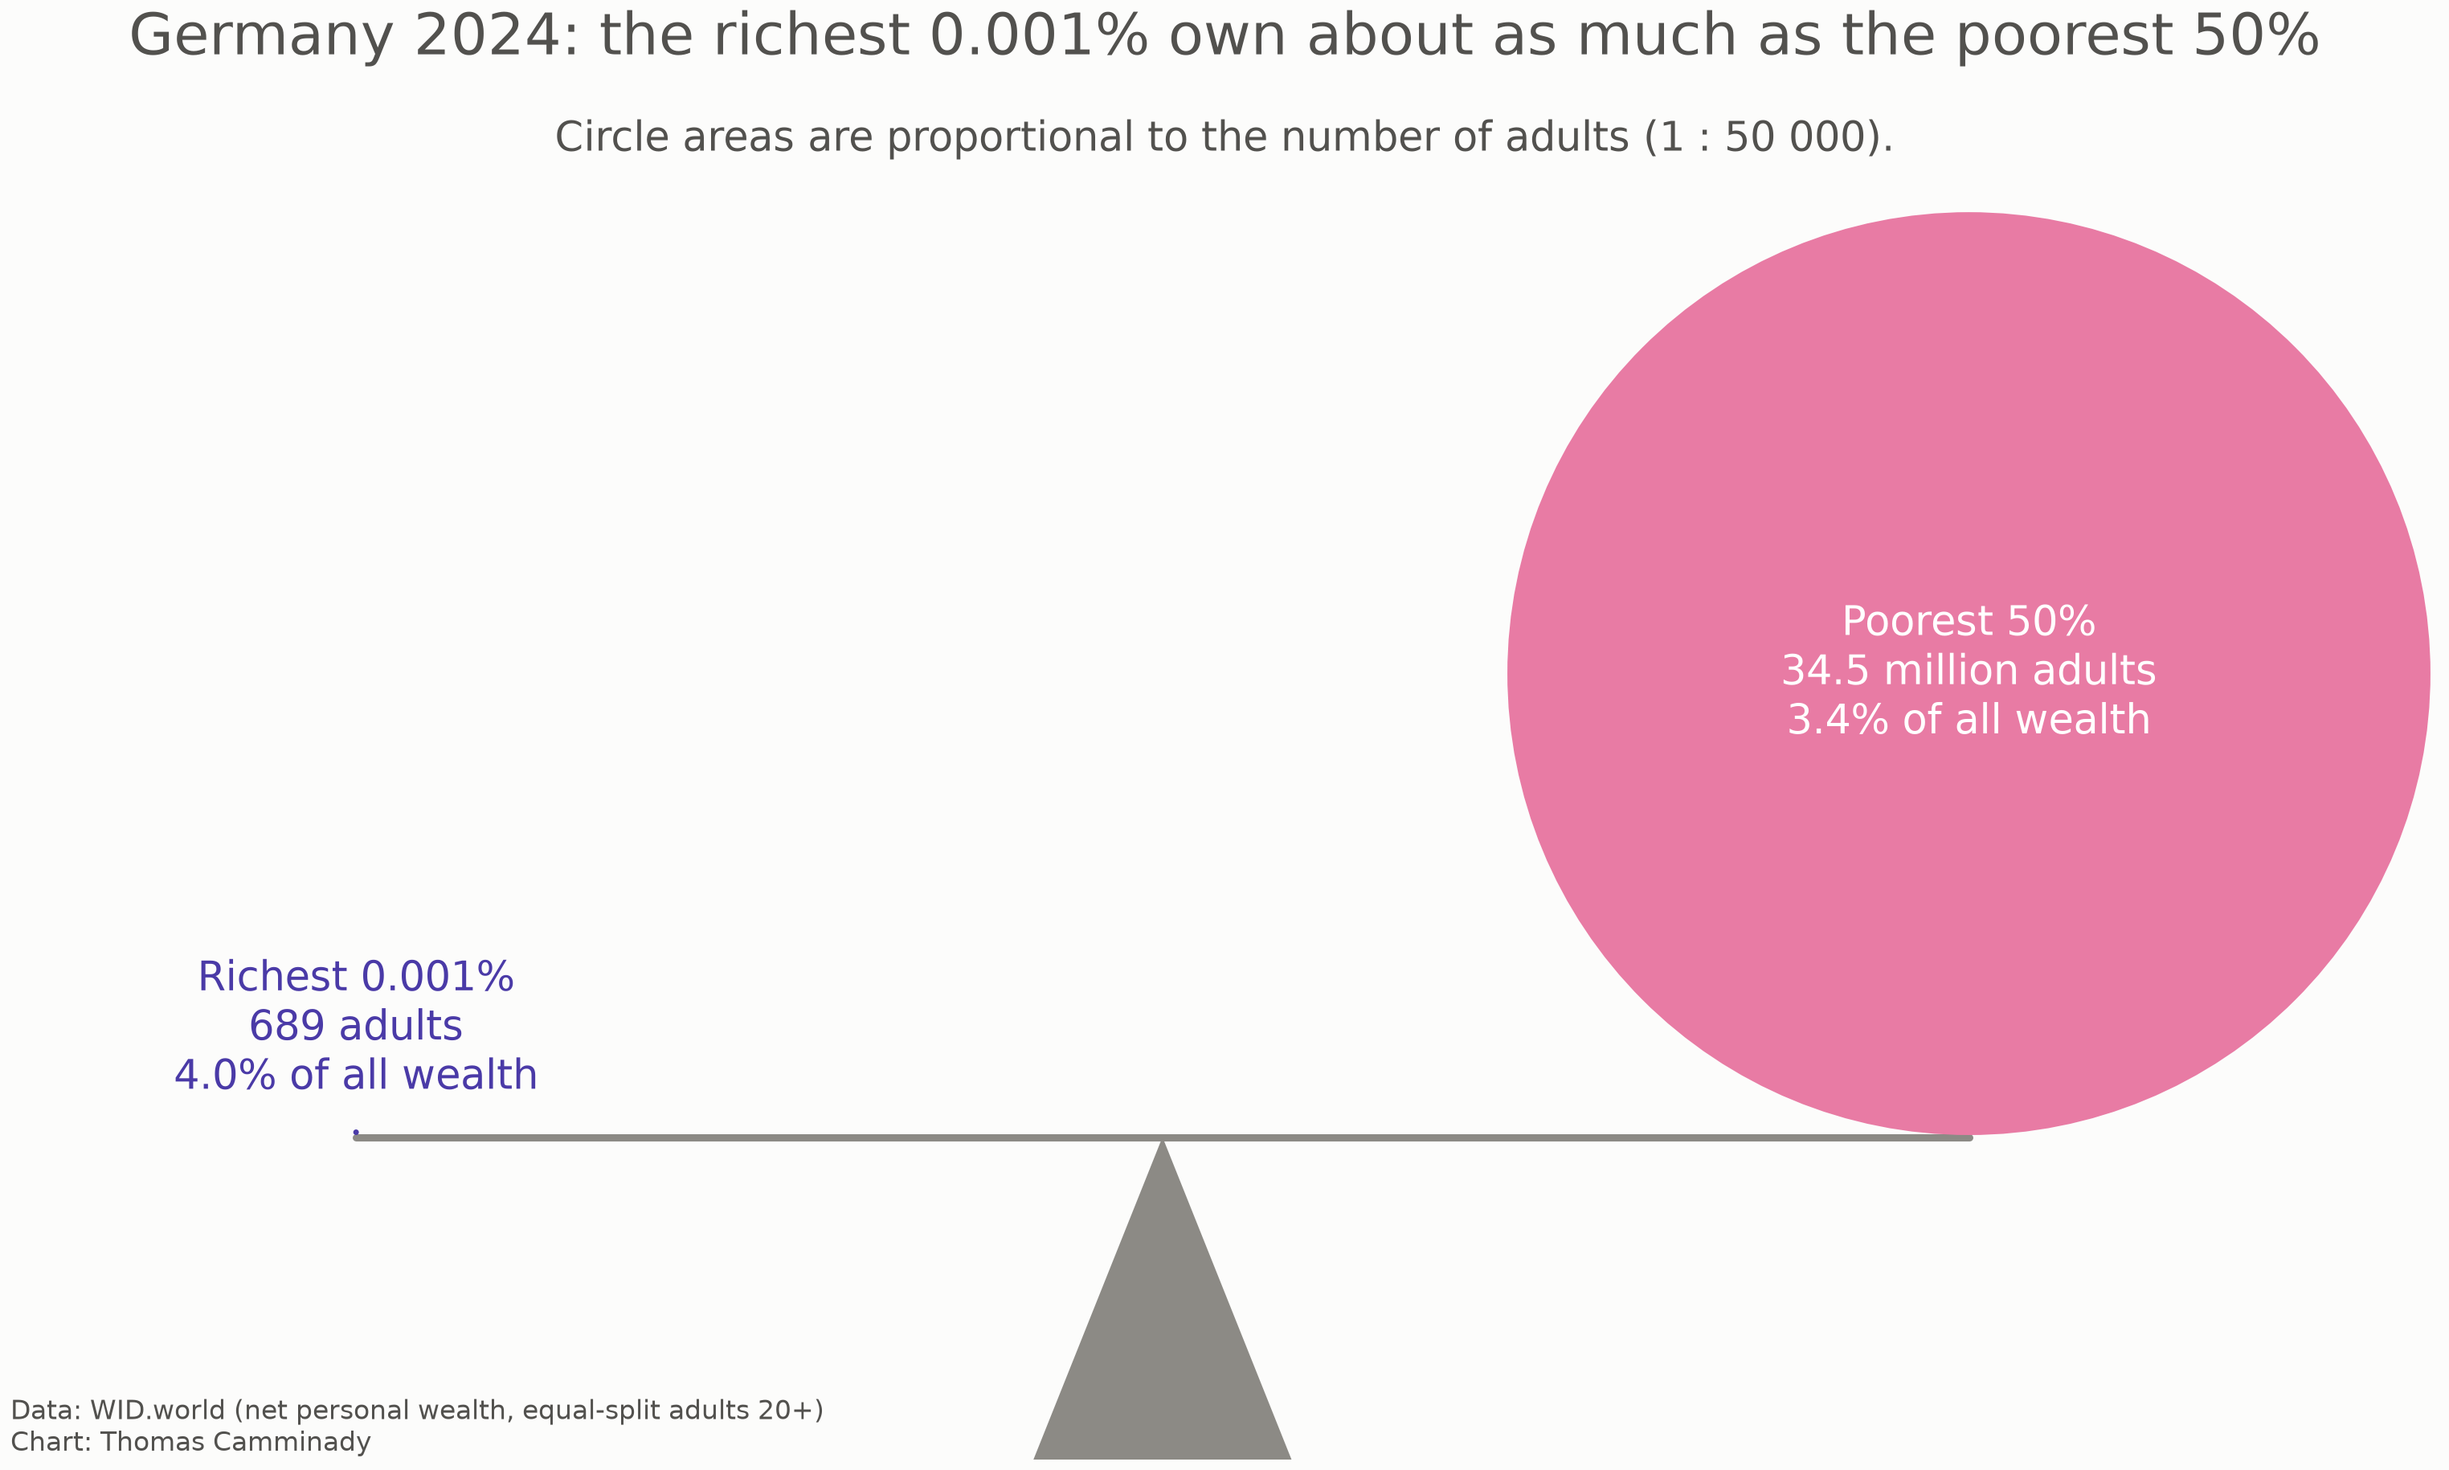
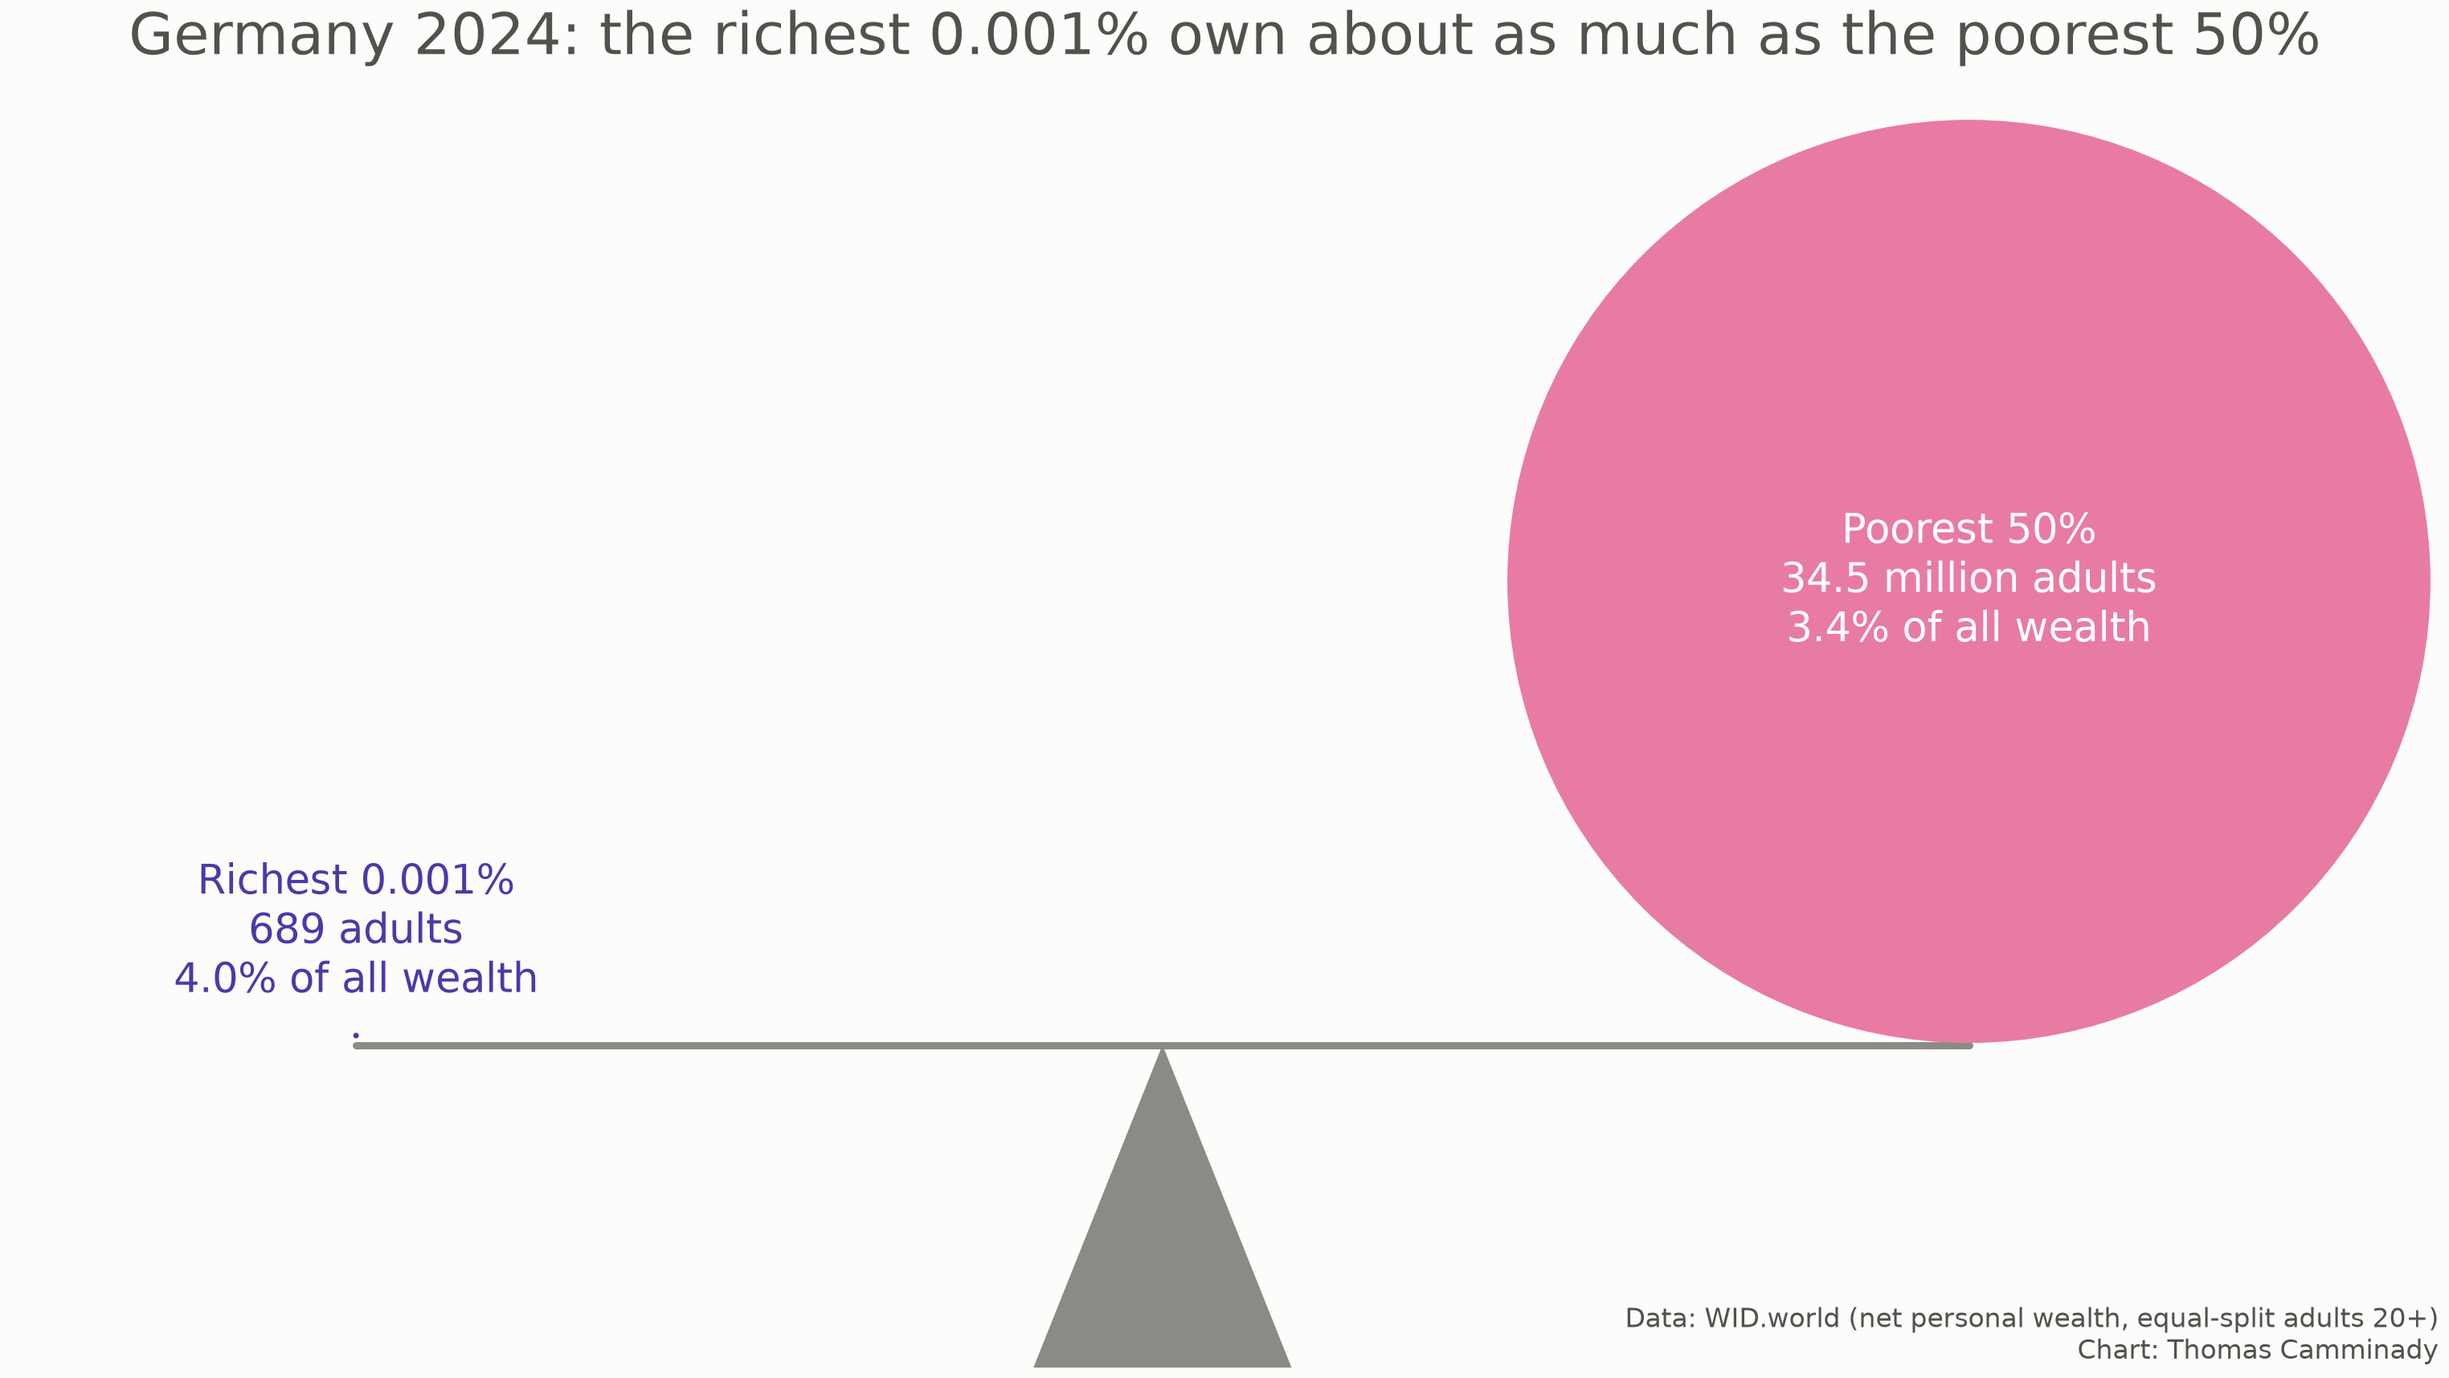
Balance: no subtitle, small circle lifted off the beam, footer bottom right

diff --git a/src/wid/plotting/balance.py b/src/wid/plotting/balance.py
@@ -24,6 +24,7 @@ BEAM_HALF_LENGTH = 1.75
 FULCRUM_HALF_WIDTH = 0.28
 FULCRUM_HEIGHT = 0.7
 BEAM_CLEARANCE = 0.006  # circles rest on top of the beam's line width
+RICH_LIFT = 0.01
 
 # The drawing is large so that the small circle (1/224 of the big one's radius)
 # stays visible; text and line widths scale with it.
@@ -35,9 +36,8 @@ FOOTER_SIZE = 18
 BEAM_WIDTH = 5.0
 LINE_WIDTH = 2.5
 SCALE_GREY = "#8c8a85"  # beam and wedge: lighter than the text grey
-TITLE_GAP = 0.32  # data units above the big circle
+TITLE_GAP = 0.12  # data units above the big circle
 RICH_LABEL_GAP = 0.06
-SUBTITLE_GAP = 0.12
 
 
 def group_shares(bins: pl.DataFrame) -> tuple[float, float]:
@@ -88,7 +88,8 @@ def plot_balance(bins: pl.DataFrame, adults: int, year: int, out_path: Path) -> 
     )
 
     # One circle per side, resting on the beam's ends.
-    rich_centre = (-BEAM_HALF_LENGTH, BEAM_CLEARANCE + rich_radius)
+    # The small circle floats a few pixels above the beam so it stays visible.
+    rich_centre = (-BEAM_HALF_LENGTH, BEAM_CLEARANCE + RICH_LIFT + rich_radius)
     poor_centre = (BEAM_HALF_LENGTH, BEAM_CLEARANCE + DISC_RADIUS)
     ax.add_patch(Circle(rich_centre, rich_radius, color=VIOLET, zorder=4))
     ax.add_patch(Circle(poor_centre, DISC_RADIUS, color=MAGENTA, zorder=4))
@@ -119,7 +120,7 @@ def plot_balance(bins: pl.DataFrame, adults: int, year: int, out_path: Path) -> 
     x_min, x_max = -BEAM_HALF_LENGTH - 0.75, BEAM_HALF_LENGTH + DISC_RADIUS + 0.02
     ax.set_xlim(x_min, x_max)
     ax.set_ylim(-FULCRUM_HEIGHT, 2 * DISC_RADIUS + 0.02)
-    # Title and subtitle sit just above the drawing, centred on it.
+    # Title sits just above the drawing, centred on it.
     centre_x = (x_min + x_max) / 2
     ax.text(
         centre_x,
@@ -131,22 +132,12 @@ def plot_balance(bins: pl.DataFrame, adults: int, year: int, out_path: Path) -> 
         fontsize=TITLE_SIZE,
         color=INK_SECONDARY,
     )
-    ratio = f"{n_poor / n_rich:,.0f}".replace(",", " ")  # 50 000
+    # Footer in two lines, bottom right, its last line level with the wedge's base.
     ax.text(
-        centre_x,
-        2 * DISC_RADIUS + SUBTITLE_GAP,
-        f"Circle areas are proportional to the number of adults (1 : {ratio}).",
-        ha="center",
-        va="bottom",
-        fontsize=TEXT_SIZE,
-        color=INK_SECONDARY,
-    )
-    # Footer in two lines, bottom left, its last line level with the wedge's base.
-    ax.text(
-        x_min,
+        x_max,
         -FULCRUM_HEIGHT,
         SOURCE_NOTE.replace(" · ", "\n"),
-        ha="left",
+        ha="right",
         va="bottom",
         fontsize=FOOTER_SIZE,
         color=INK_SECONDARY,
